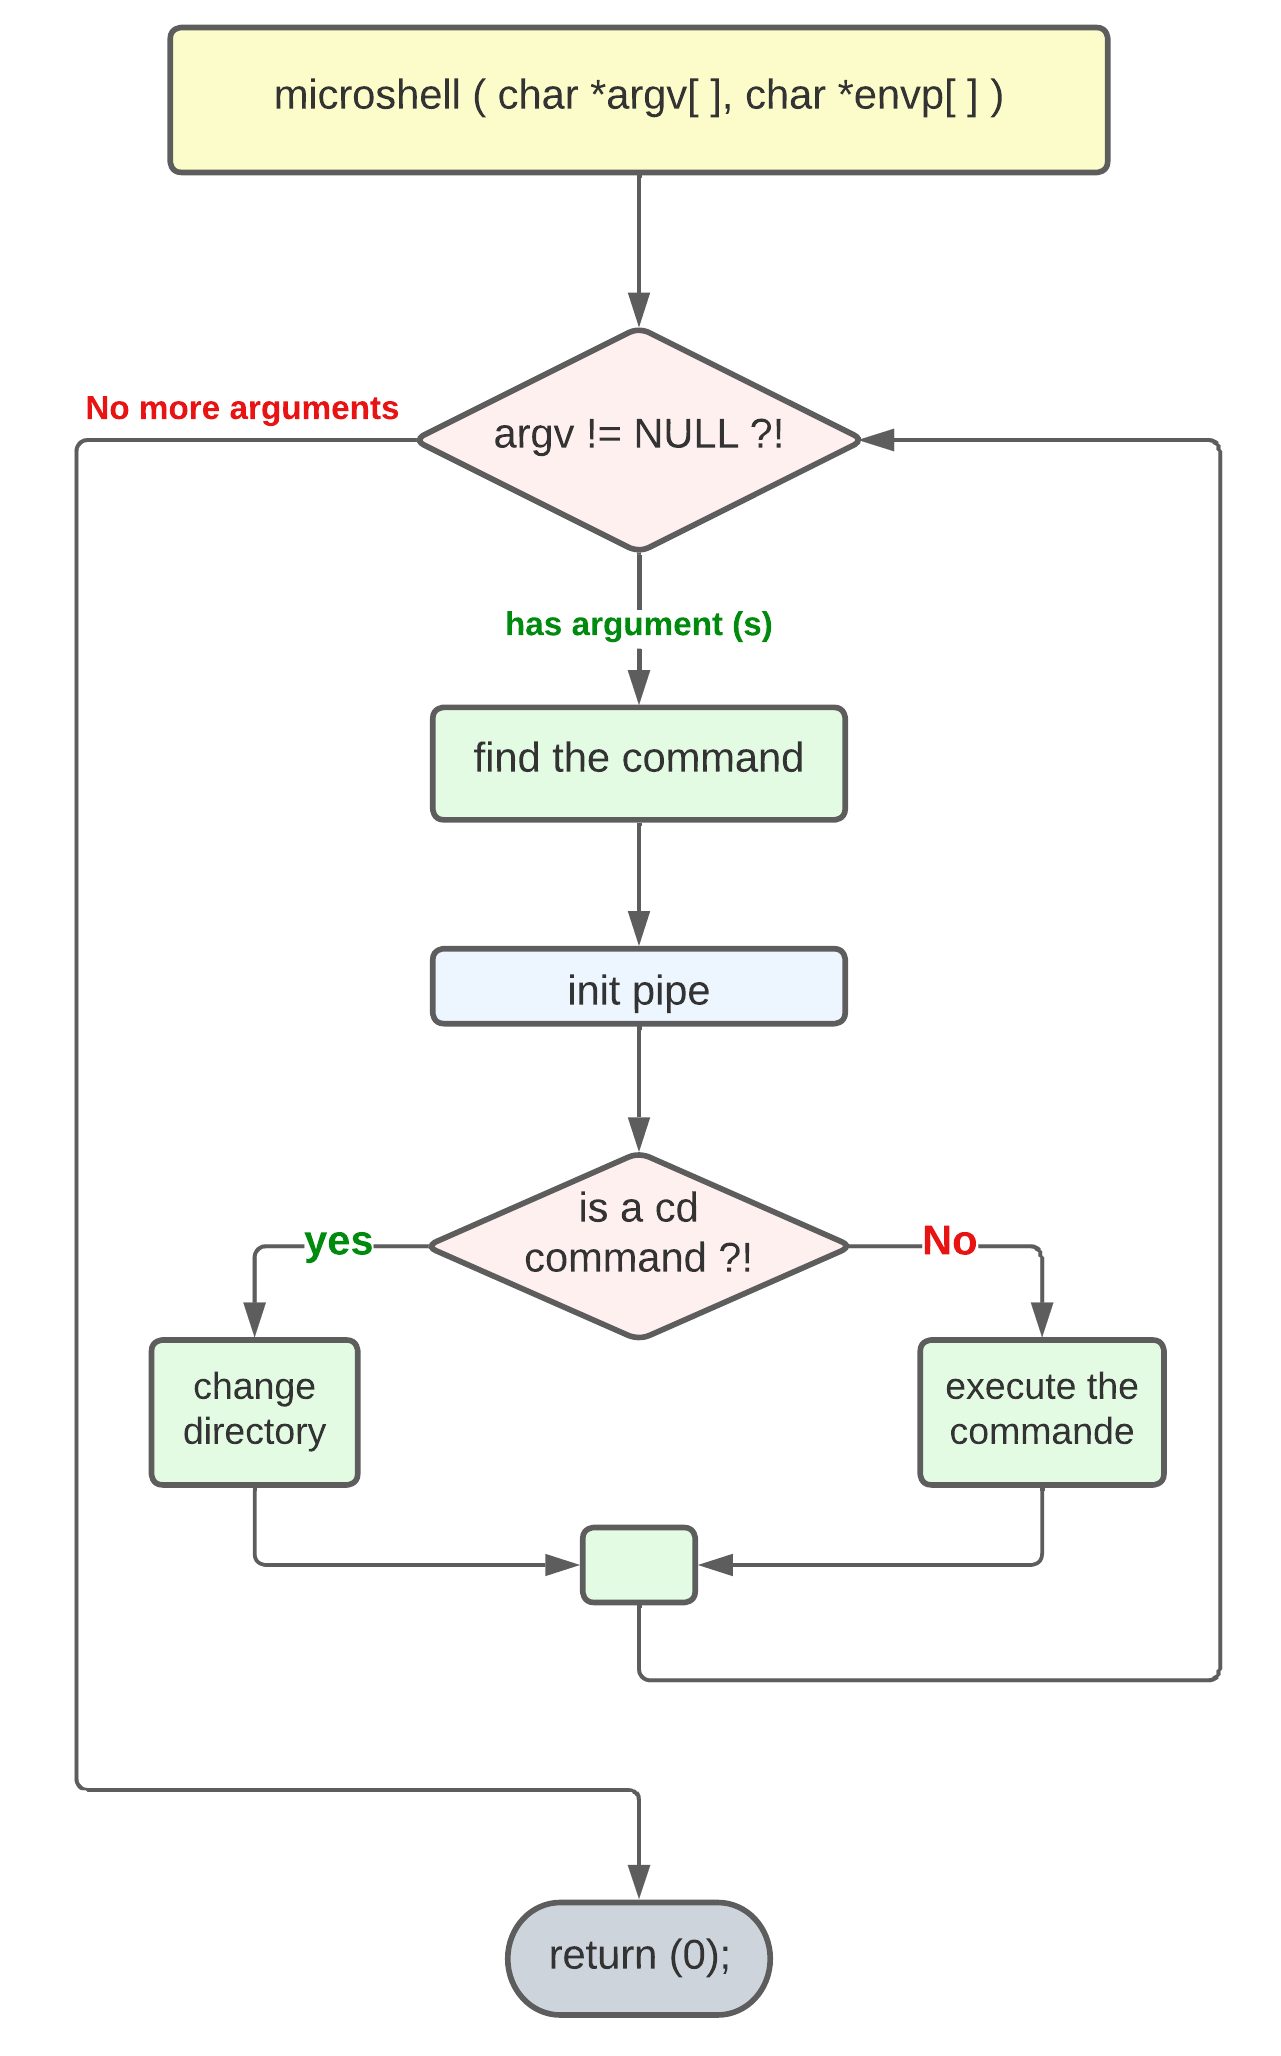
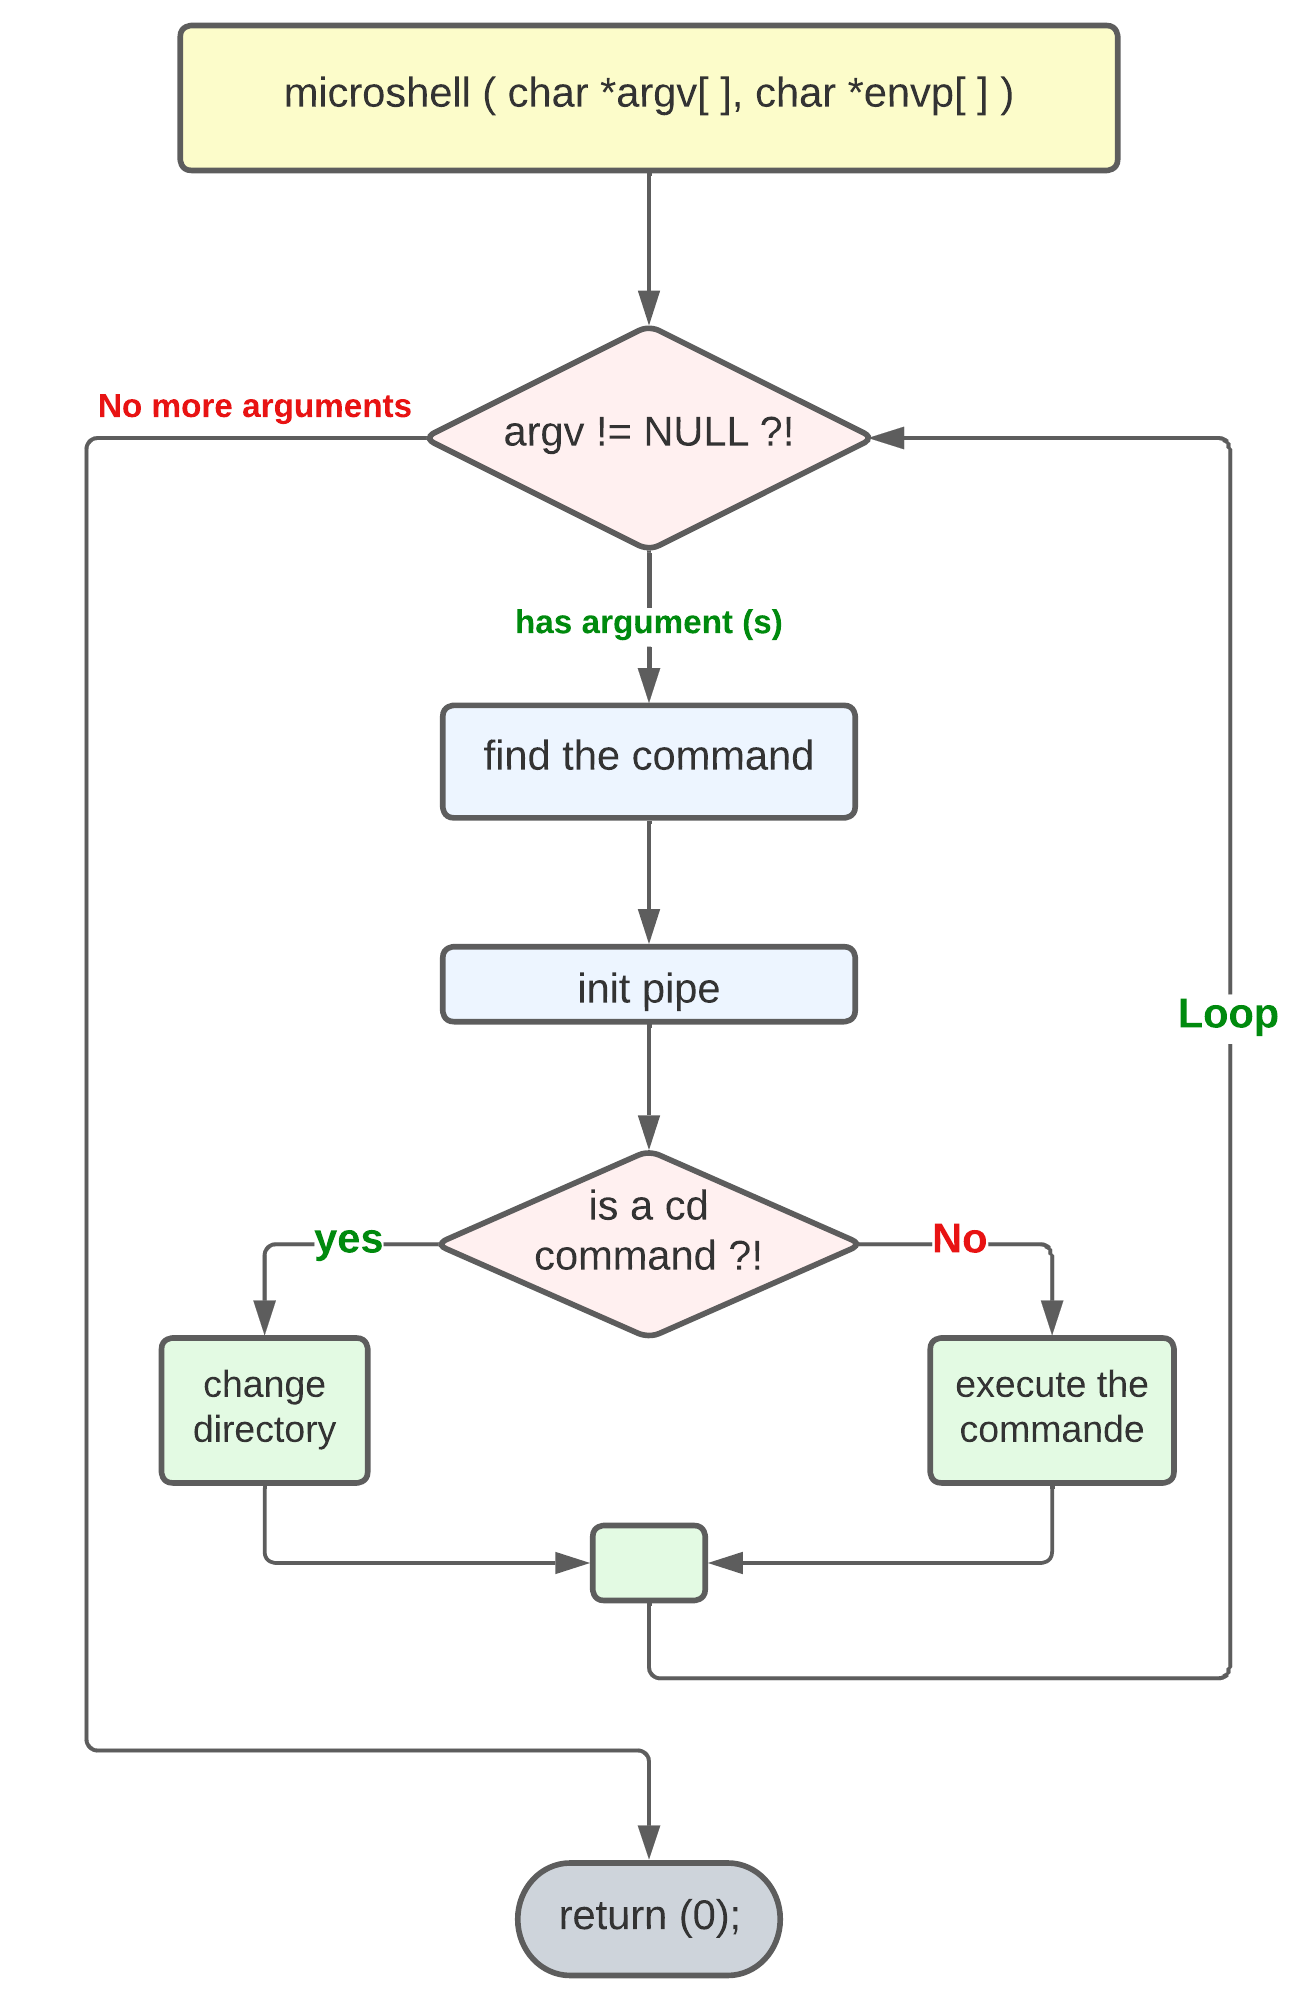
add diagrams

diff --git a/microshell.c b/microshell.c
@@ -11,9 +11,26 @@ typedef struct s_command {
 	int		fd[2];
 }	t_command;
 
-static int microshell(char **av, char **envp)
+static void find_command(char *arg, t_command *cmd)
 {
 	
+}
+
+static int microshell(char **av, char **envp)
+{
+	t_command *cmd;
+
+	while (*av)
+	{
+		cmd->isPipe = 0;
+		cmd->bin = *av;
+		cmd->args = av;
+		find_command(&args, &cmd);
+		init_pipe(&cmd);
+		if (cd_command(&cmd))
+			execute_command(&cmd, envp);
+
+	}
 	return (0);
 }
 

diff --git a/README.md b/README.md
@@ -1,14 +1,19 @@
 ![image/titre.png](image/titre.png)
 
 ---
-### main function
+### Main function
 
 
-[<img src="image/main.png" width="300">](image/main.png)
+[<img src="image/main.png" width="280">](image/main.png)
 
-
-### microshell function
+----
+### Microshell function
 
 
 [<img src="image/microshell.png" width="300">](image/microshell.png)
 
+---
+### find commande
+
+
+[<img src="image/find_command.png" width="300">](image/find_command.png)
